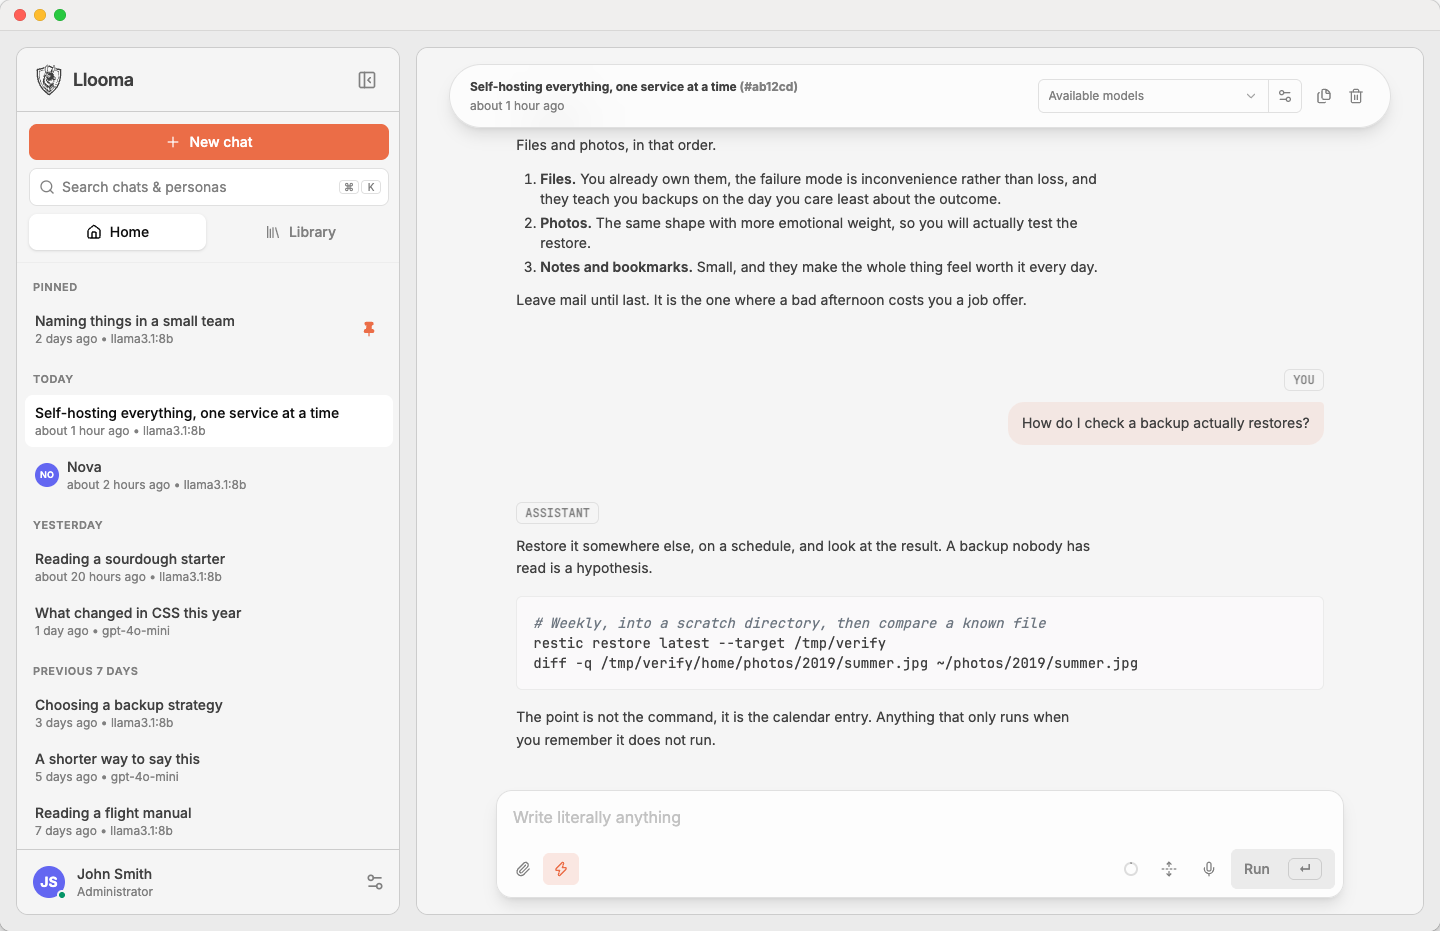
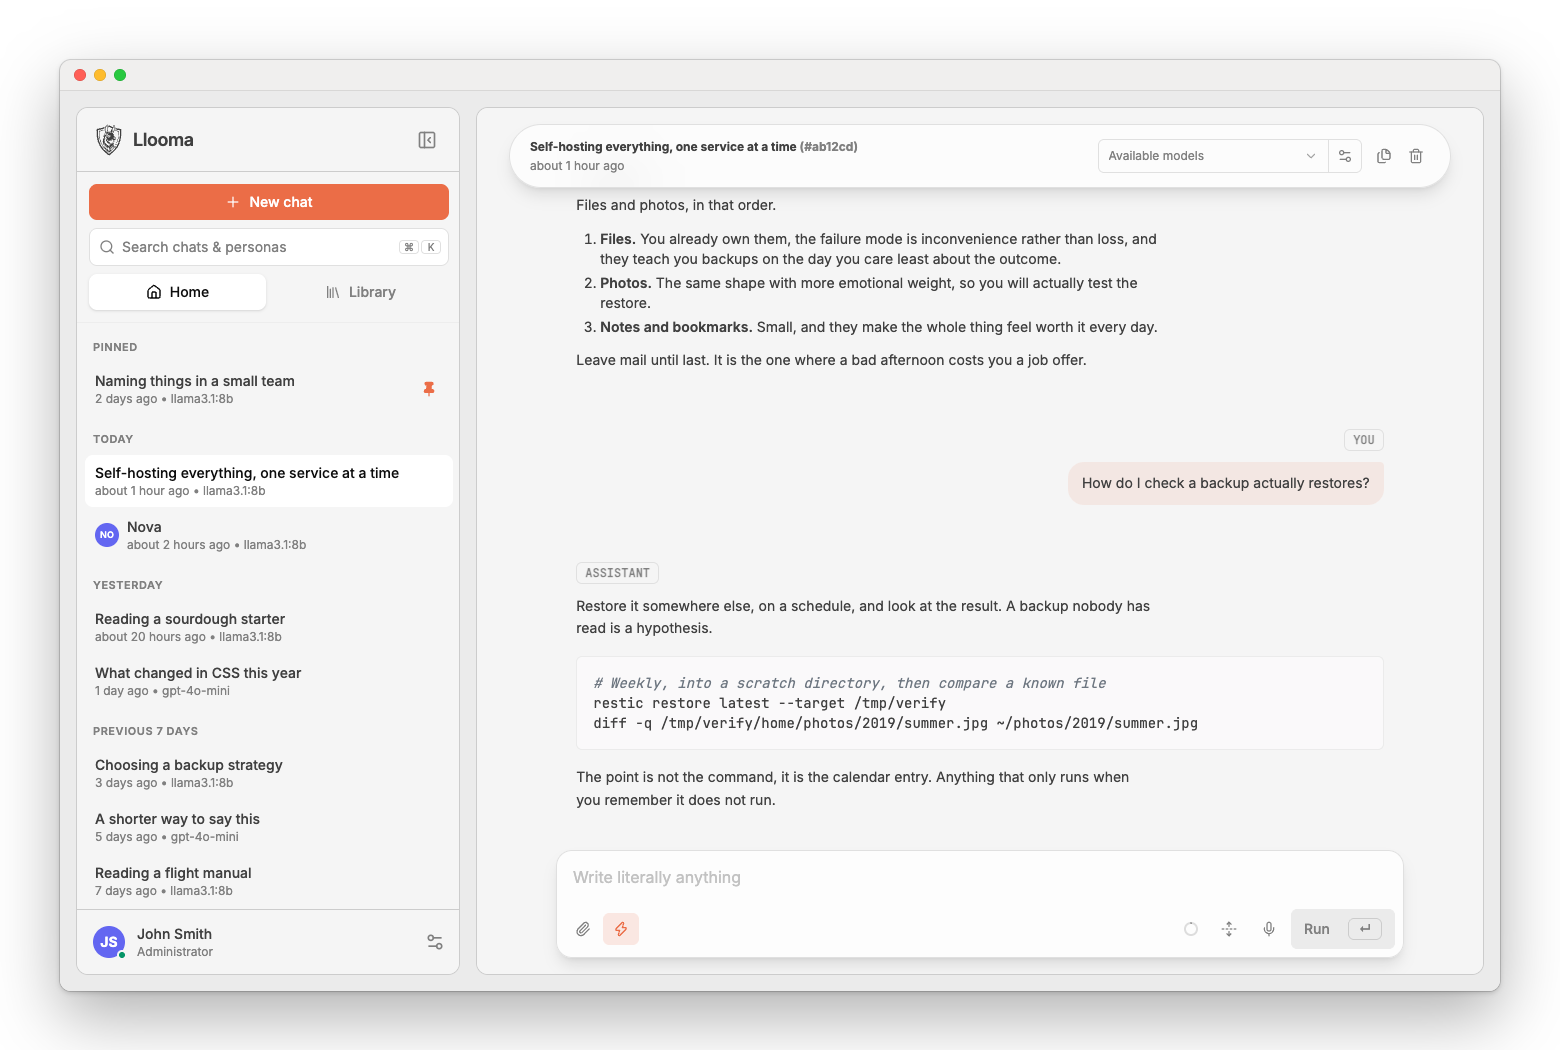
Revert "fix(docs): crop the screenshots to the window and draw their shadow in CSS"
This reverts commit 21ce3d0412b749e77d9449ecd6d04497d8afaac8.

diff --git a/docs/src/styles/custom.css b/docs/src/styles/custom.css
@@ -239,16 +239,11 @@
 }
 
 /*
- * A screenshot. Every asset is a rounded window on a transparent ground, cropped
- * to the window itself, and the shadow under it is drawn here.
- *
- * Twice now it has been drawn the wrong way. A `box-shadow` and a border apply to
- * the element's box, which for a rounded shape on transparency is a rectangle
- * around it rather than under it. The assets then carried a baked shadow of their
- * own, in 60px of margin, but one that was still at 8% alpha where the file ended:
- * a hard line along the bottom, which is the square that would not go away. Hence
- * `drop-shadow`, which follows the alpha and fades to nothing, on an image with no
- * margin left to cut. The hero has always done it this way.
+ * A screenshot. Every asset here is already a framed window on a transparent
+ * ground, with its own shadow drawn in about 60px of margin around it, so the
+ * page adds nothing: a border and a radius would land on that empty margin
+ * rather than on the window, drawing a rectangle a long way outside the frame
+ * and cutting the shadow off against its edge. Only the glow behind stays.
  */
 .shot {
 	position: relative;
@@ -262,7 +257,6 @@
 	display: block;
 	width: 100%;
 	height: auto;
-	filter: drop-shadow(0 18px 34px rgb(0 0 0 / 0.32));
 }
 
 .shot::before {
@@ -423,7 +417,6 @@
 	display: block;
 	width: 100%;
 	height: auto;
-	filter: drop-shadow(0 16px 30px rgb(0 0 0 / 0.3));
 }
 
 /* The phone is taller than it is wide, so it needs a cap the desktop shots do
